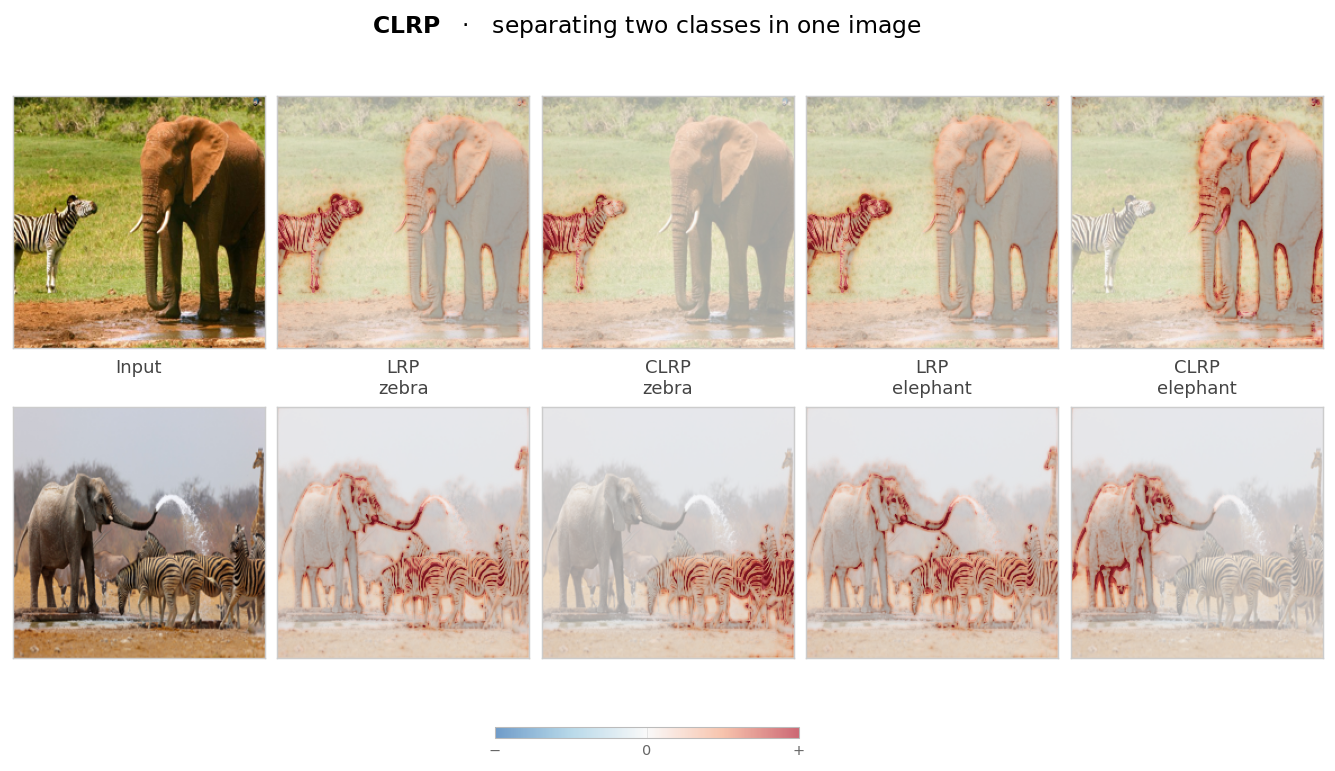
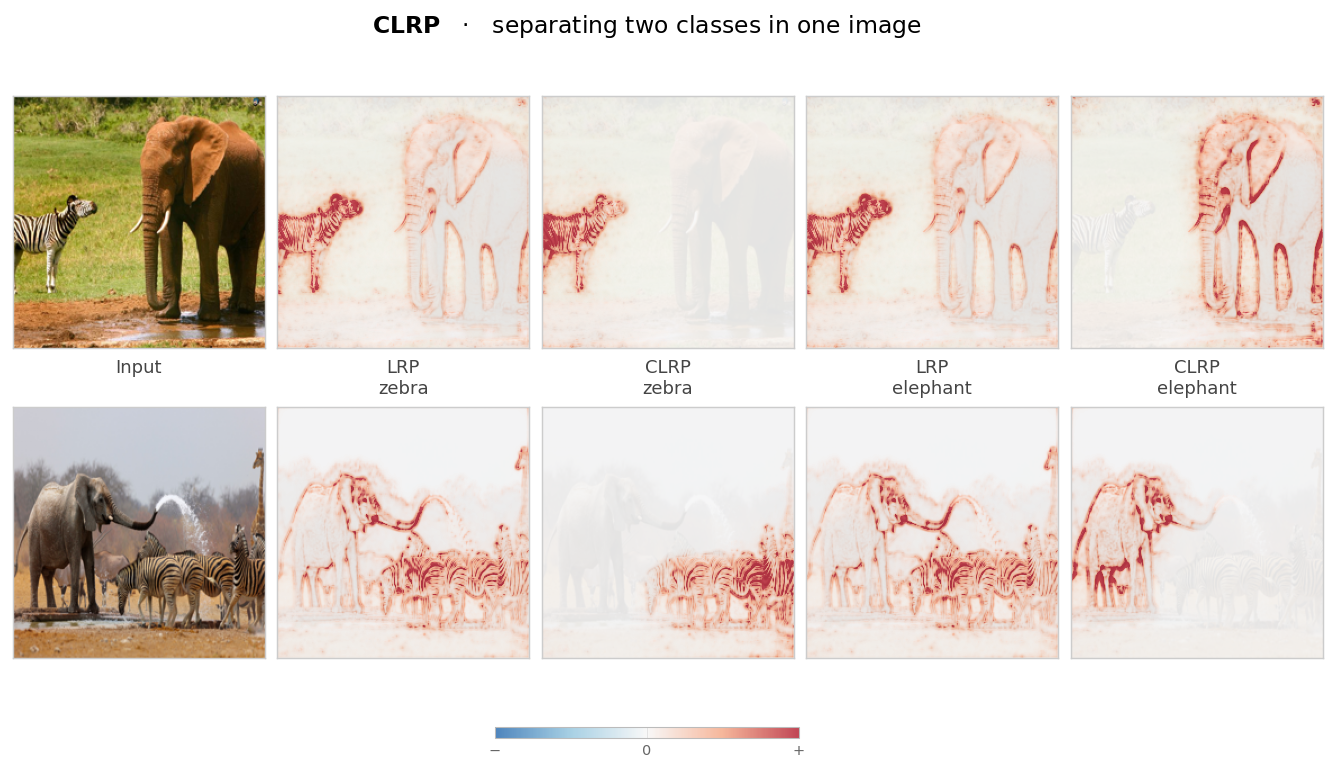
dim overlay base image so relevance stands out

diff --git a/examples/showcase/_common.py b/examples/showcase/_common.py
@@ -205,8 +205,8 @@ def _draw_input_panel(ax, img, caption='Input'):
 
 
 def _draw_overlay_panel(ax, img, hmap, vmax, caption='Attribution overlay'):
-    ax.imshow(img)
-    im = ax.imshow(hmap, cmap=RELEVANCE_CMAP, alpha=0.65,
+    ax.imshow(img, alpha=0.4)                    # faint base so relevance dominates
+    im = ax.imshow(hmap, cmap=RELEVANCE_CMAP, alpha=0.8,
                    vmin=-vmax, vmax=vmax)
     _frame_panel(ax)
     ax.set_xlabel(caption, fontsize=10, color='#444444', labelpad=6)

diff --git a/README.md b/README.md
@@ -44,7 +44,7 @@ Notebooks: [VGG-16](examples/showcase/vision/01_vgg16.ipynb),
 [ViT-B/16](examples/showcase/vision/03_vit_b_16.ipynb)
 
 <p align="center">
-  <img src="https://raw.githubusercontent.com/Wa-lead/autoLRP/main/assets/showcase/image_classification.png?v=2" width="90%">
+  <img src="https://raw.githubusercontent.com/Wa-lead/autoLRP/main/assets/showcase/image_classification.png?v=3" width="90%">
 </p>
 
 ### Next-token prediction
@@ -82,7 +82,7 @@ CLRP, [Gu et al. 2018](https://arxiv.org/abs/1812.02100).
 Notebook: [CLRP](examples/showcase/paper_impl/03_clrp_vgg16.ipynb)
 
 <p align="center">
-  <img src="https://raw.githubusercontent.com/Wa-lead/autoLRP/main/assets/showcase/clrp.png" width="95%">
+  <img src="https://raw.githubusercontent.com/Wa-lead/autoLRP/main/assets/showcase/clrp.png?v=2" width="95%">
 </p>
 
 ### Attention rule variant (CP-LRP)
